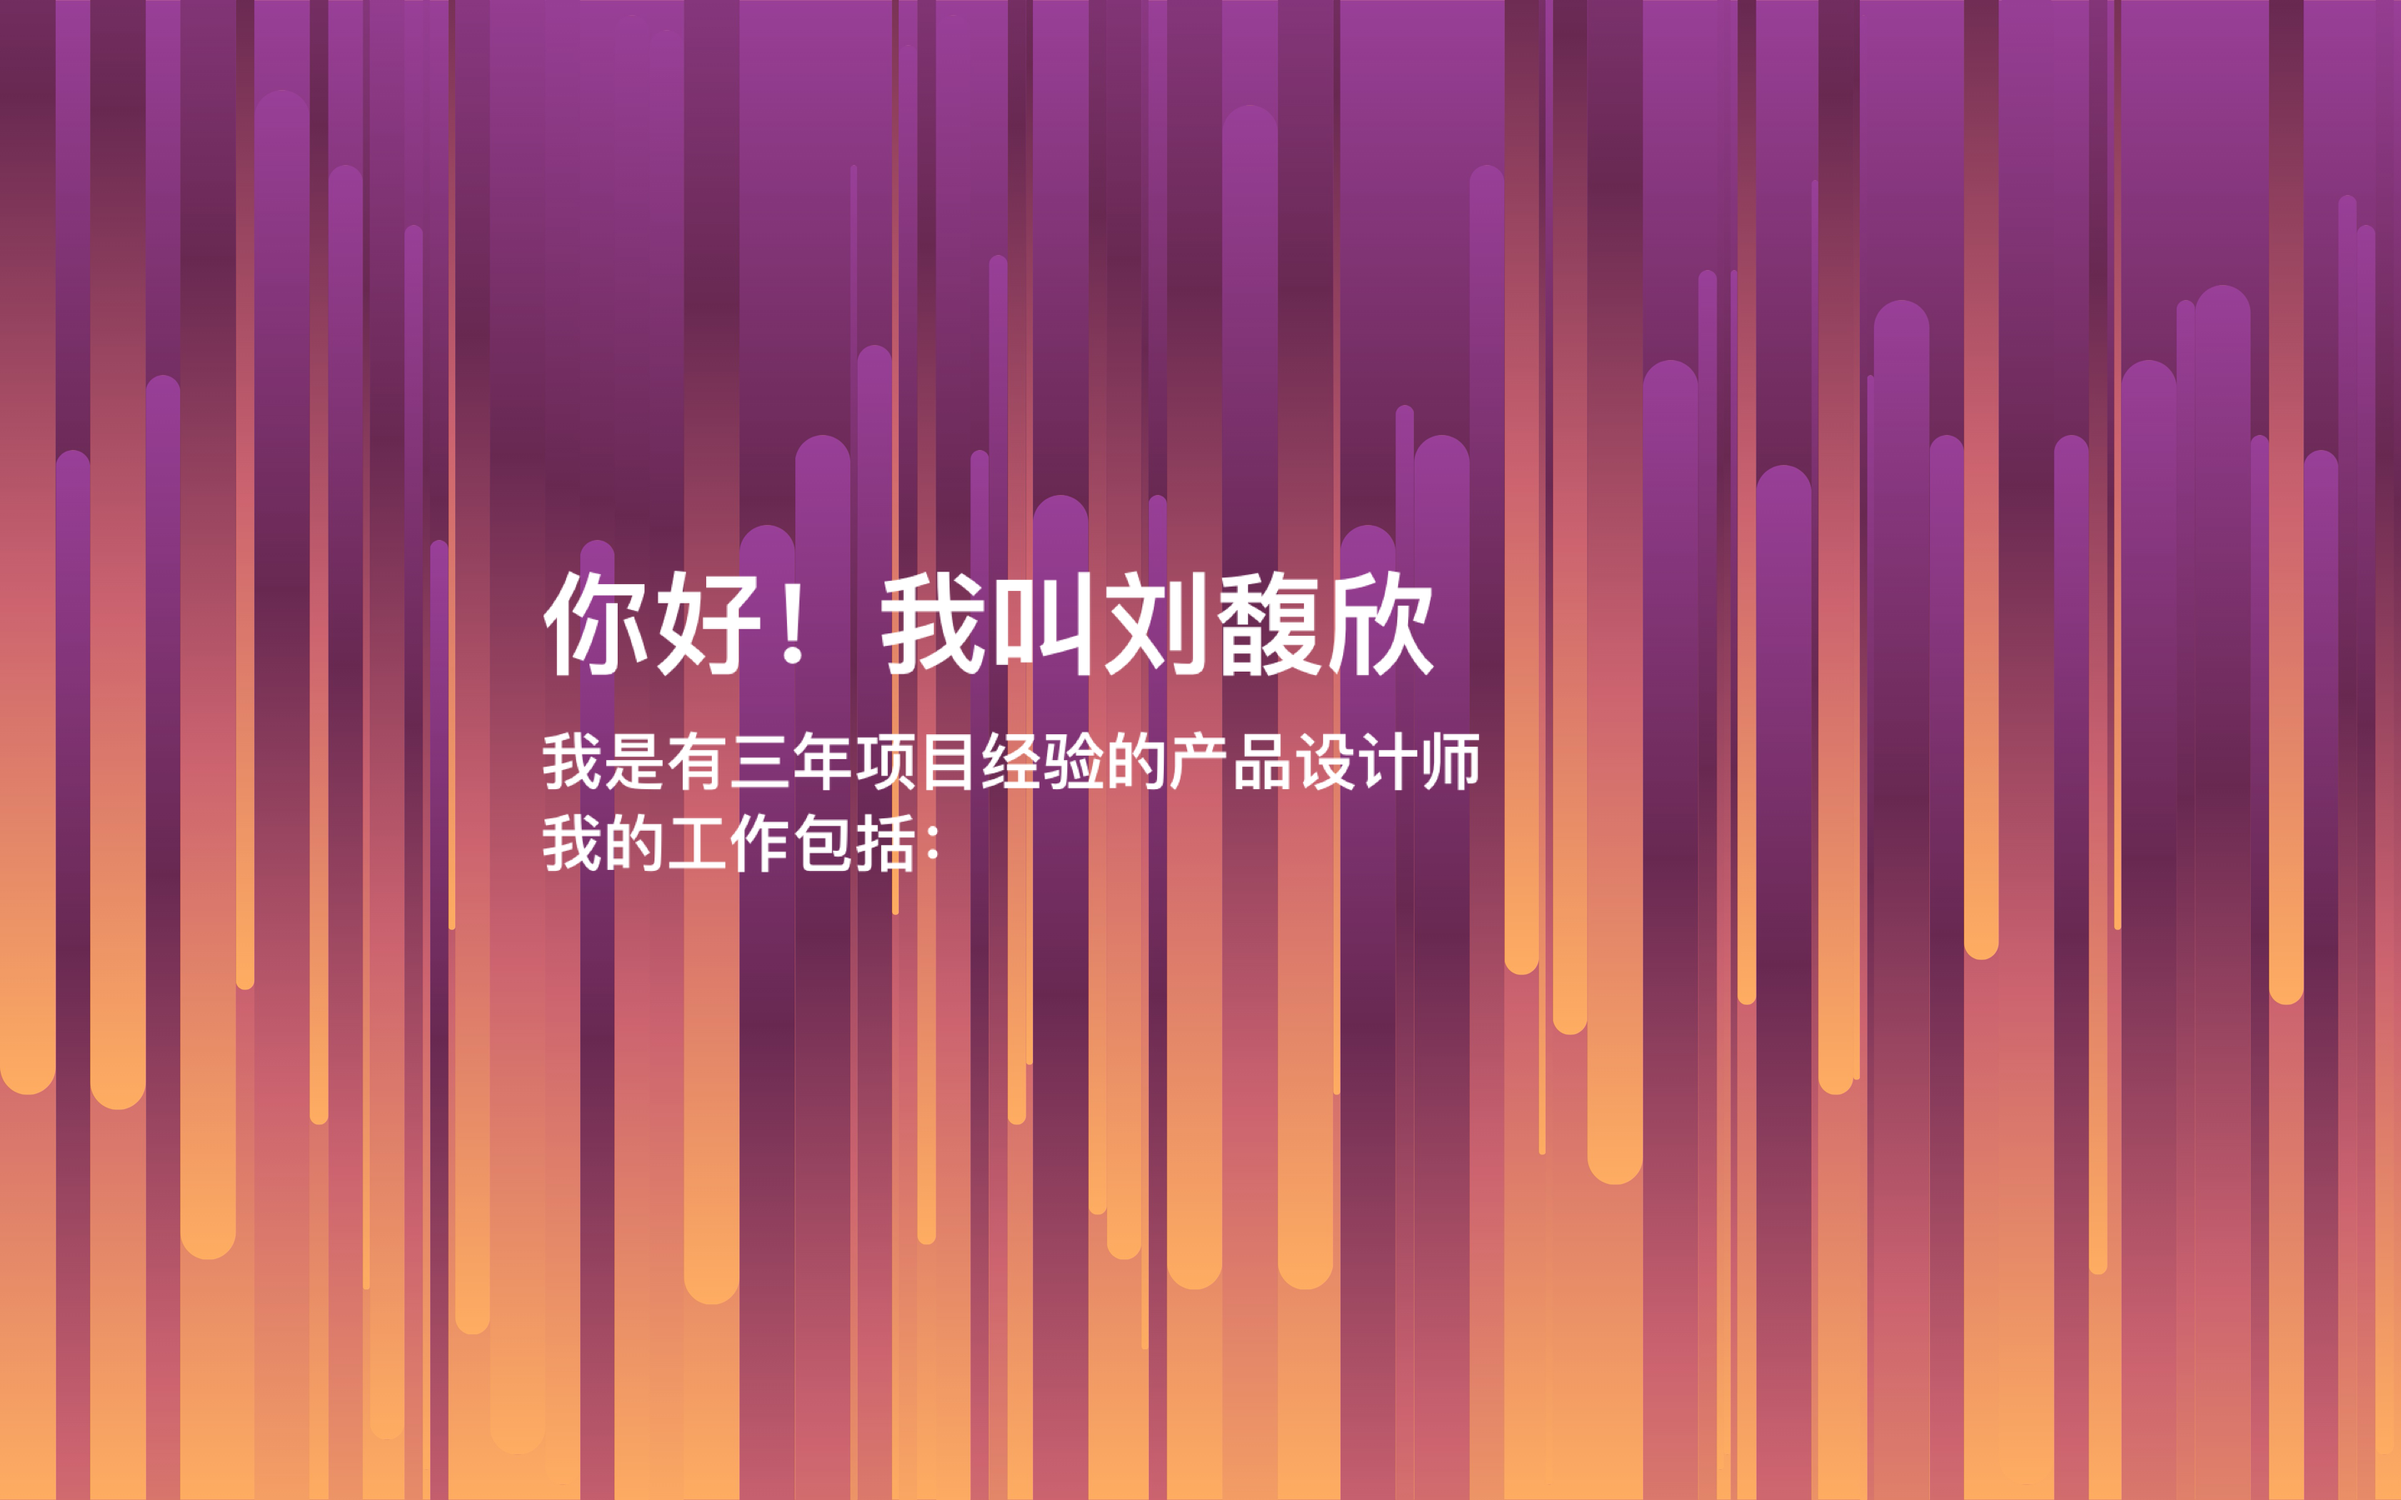
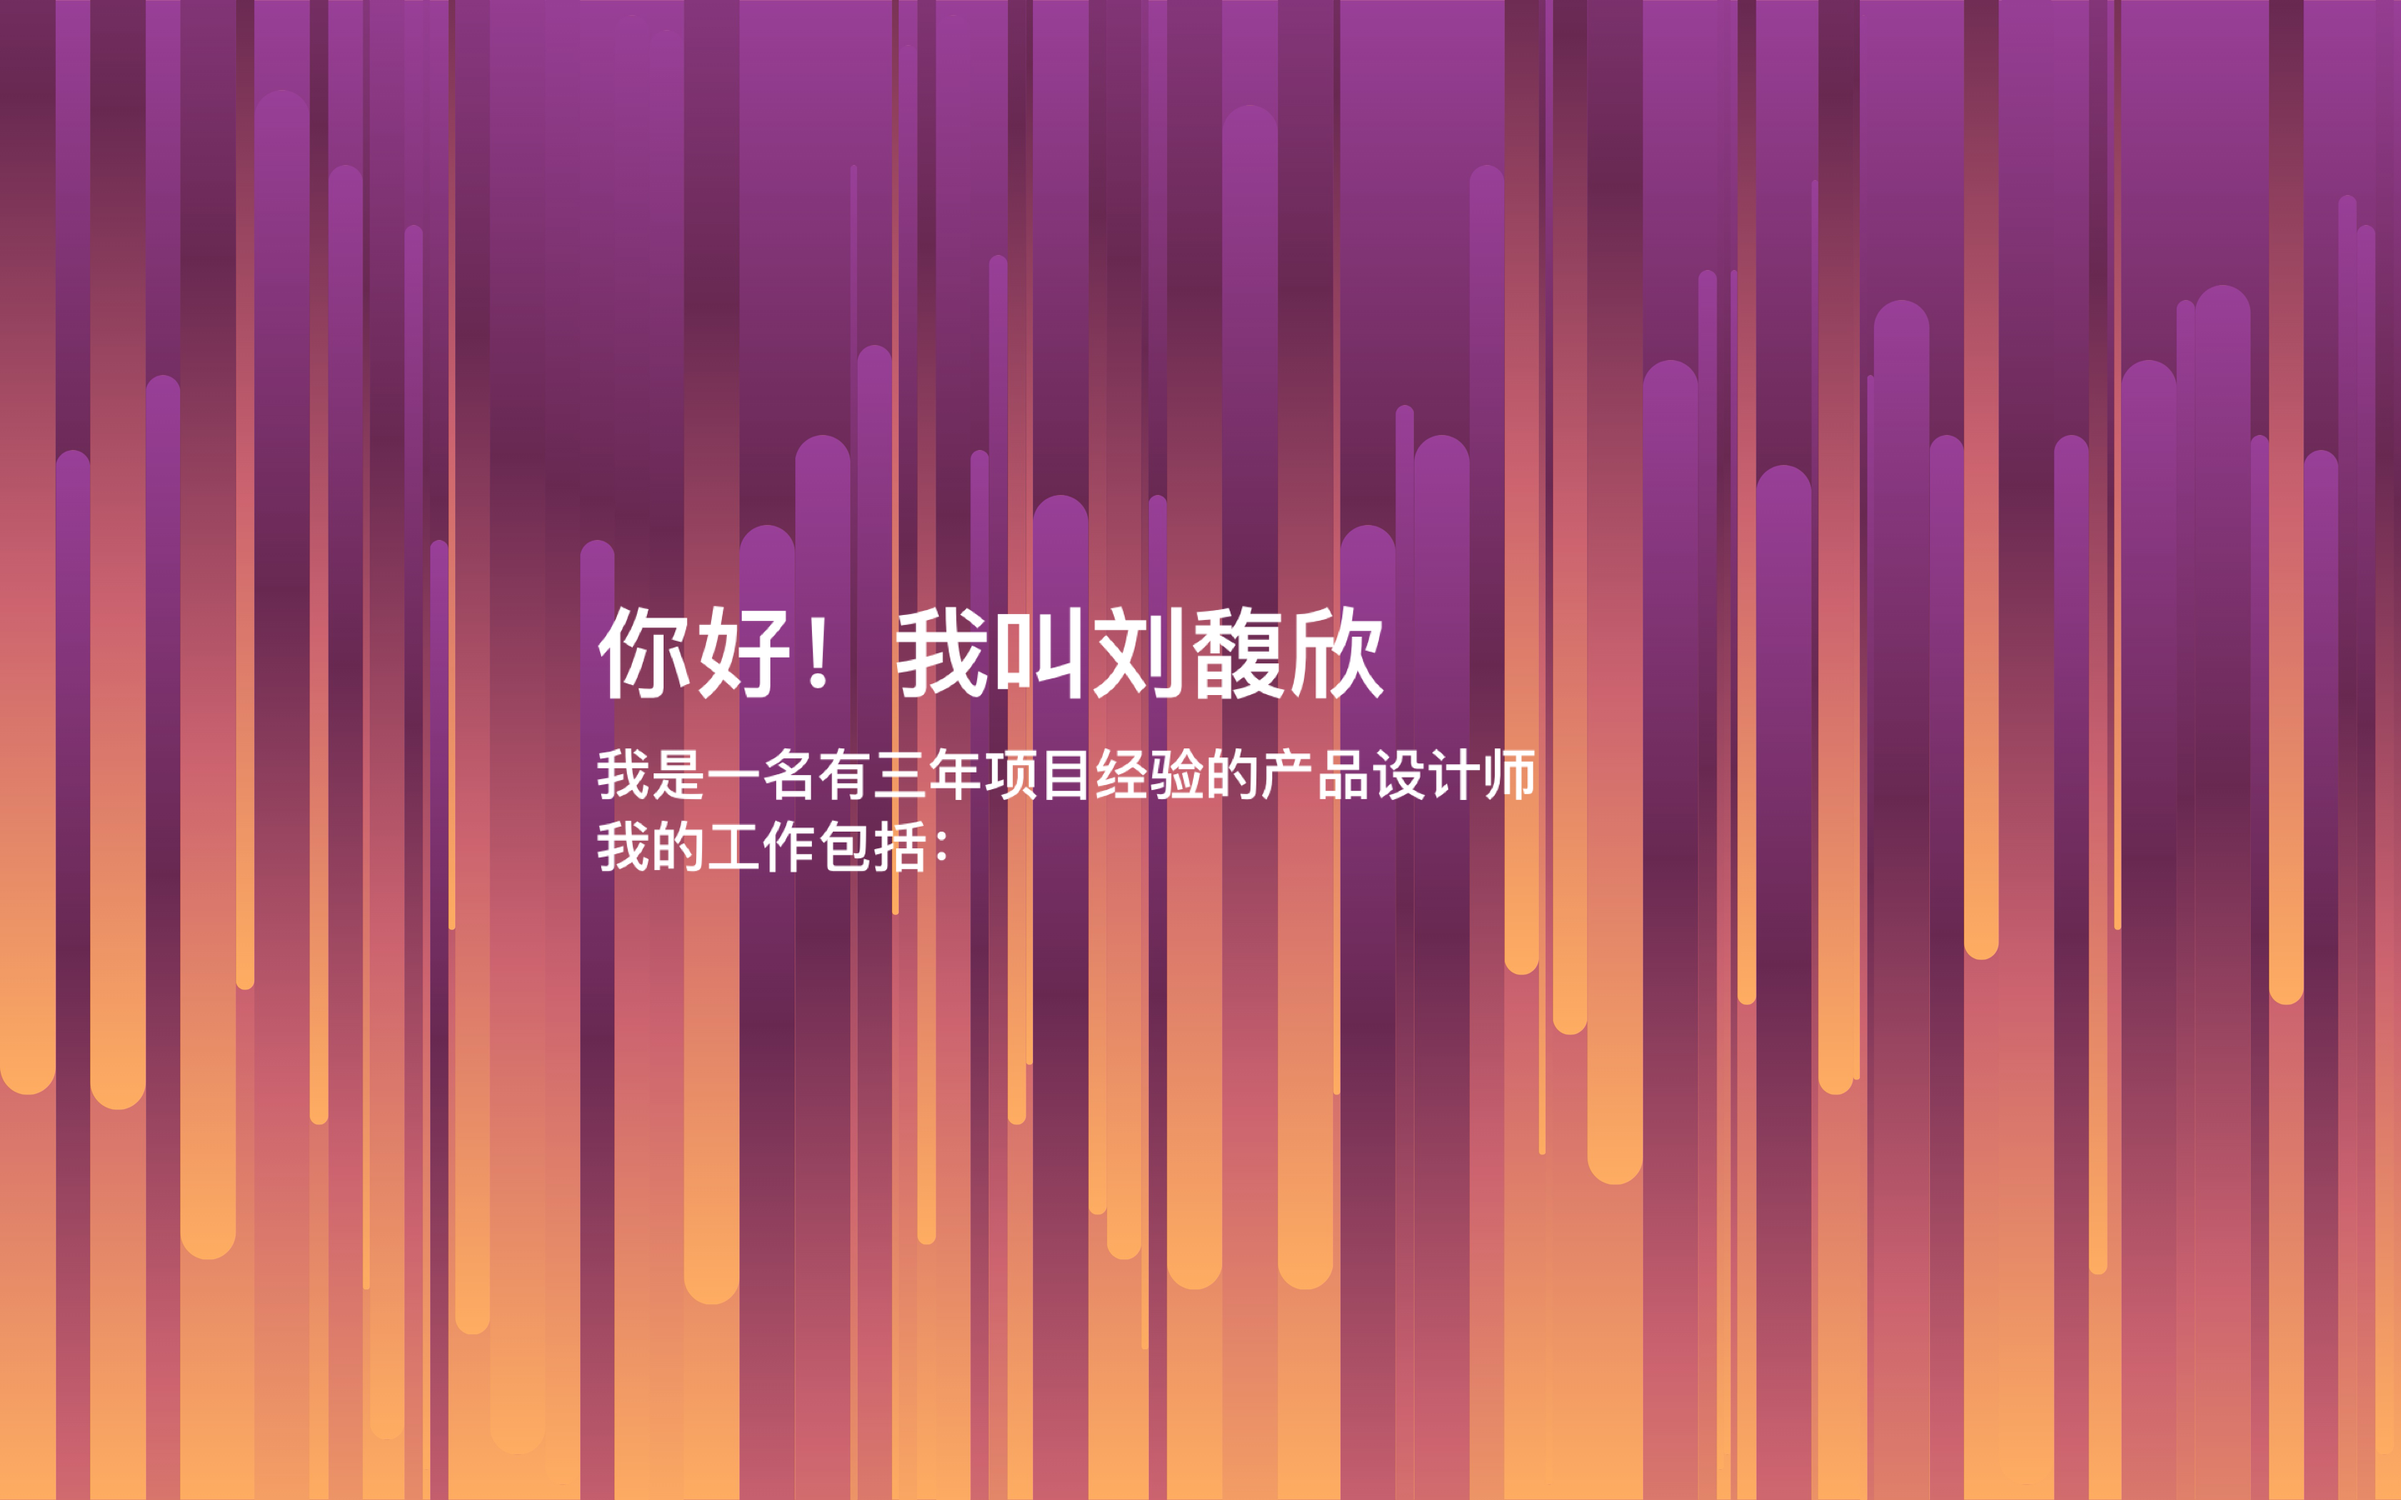
renew

Changed region(s): [[0.2188, 0.3733, 0.6562, 0.5911]]

diff --git a/index_cn.html b/index_cn.html
@@ -32,9 +32,7 @@
 <image src="img/wepark/space.png"></image>
 <image src="img/text-cn.gif" style="max-width: 30%;"></image>
 <image src="img/wepark/space.png"></image>
-<br>
-<br>
-<br>
+、
 <!--
 <h1>Hi! My name is Fuxin</h1>
 <div style="text-align: justify; width: 50%; color: #fff;padding: 0;">
